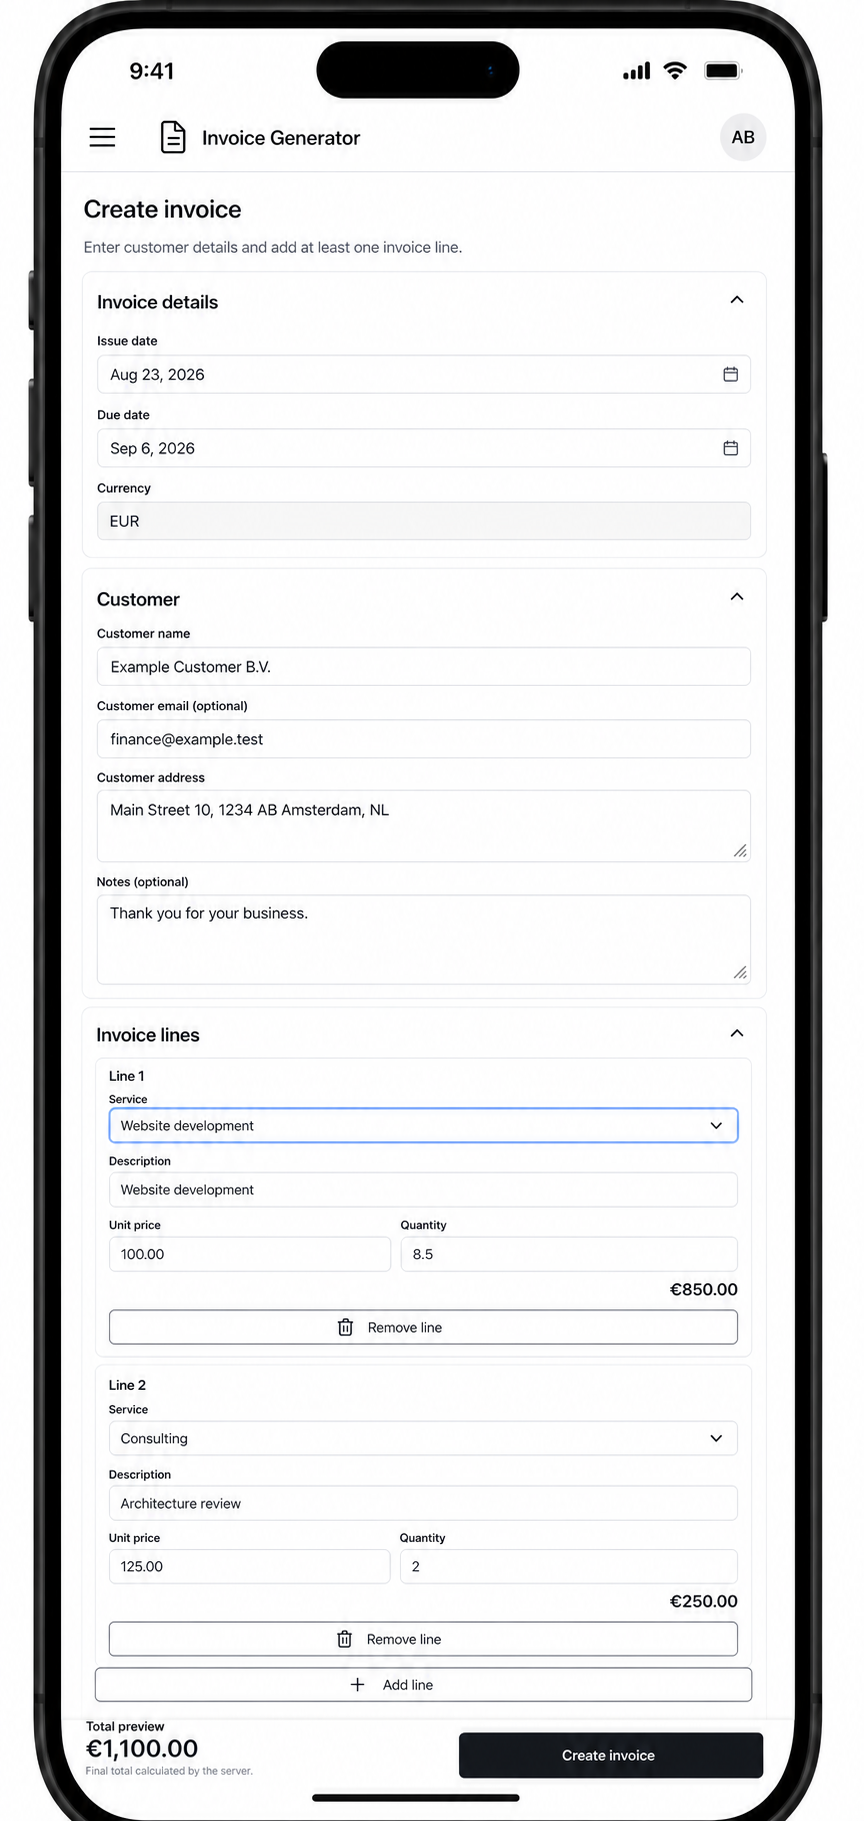
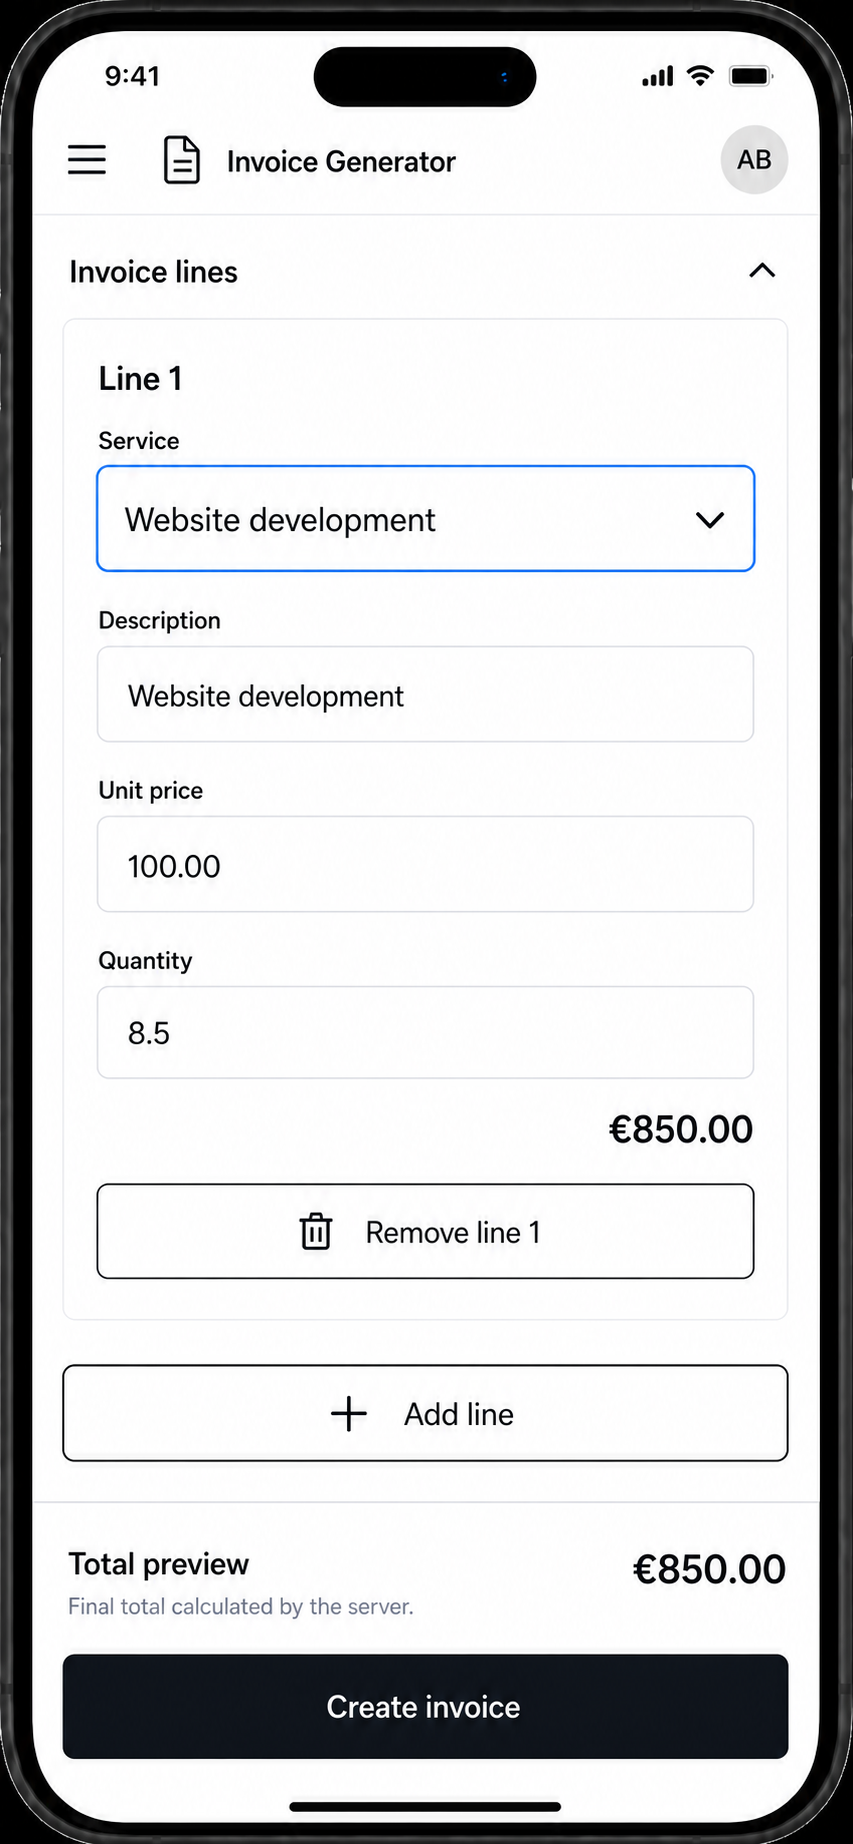
design: improve mobile invoice usability

diff --git a/docs/design/IMAGEGEN_PROMPTS.md b/docs/design/IMAGEGEN_PROMPTS.md
@@ -85,19 +85,16 @@ Avoid: invoice status, badges such as paid/draft/overdue/sent, payment actions, 
 ## Invoice creation — mobile
 
 ```text
-Use case: ui-mockup
+Use case: precise-object-edit
 Asset type: mobile web application reference mockup
-Primary request: create a high-fidelity, implementation-realistic mobile responsive "Create invoice" screen for the learning-focused Invoice Generator app, showing how the same documented multi-line invoice form adapts to a narrow phone without becoming a desktop form shrunk down.
-Scene/backdrop: one centered modern phone viewport on a plain white presentation background; inside the phone use a white application canvas.
-Subject: top app bar with hamburger menu button, generic document icon, compact product title "Invoice Generator", and a small circular account avatar. Page title "Create invoice" with supporting text "Enter customer details and add at least one invoice line." Stack collapsible-looking but open shadcn-style sections. "Invoice details" card has full-width labeled date controls "Issue date" value "Aug 23, 2026", "Due date" value "Sep 6, 2026", and read-only "Currency" value "EUR". "Customer" card shows "Customer name" value "Example Customer B.V.", "Customer email (optional)" value "finance@example.test", and a multiline "Customer address" value "Main Street 10, 1234 AB Amsterdam, NL". "Invoice lines" shows two clearly separated vertical line cards with headers "Line 1" and "Line 2". Each line has full-width "Service" select, "Description", then a two-column row "Unit price" and "Quantity", a right-aligned line preview. Line 1 values "Website development", "Website development", "100.00", "8.5", "€850.00"; Line 2 values "Consulting", "Architecture review", "125.00", "2", "€250.00". Each line has a labeled small outline action "Remove line"; below is full-width outline "Add line". Sticky bottom summary bar reads "Total preview" and "€1,100.00" with dark full-width button "Create invoice". Include short helper "Final total calculated by the server."
-Style/medium: realistic shippable responsive React web product UI matching shadcn/ui base-vega Input, Select, Card, Button and Lucide line icons; not concept art and not a native iOS design.
-Composition/framing: portrait mobile screenshot, approximate 390px-class viewport, vertically scrollable page captured as a tall full-page reference, 16px outer padding, single-column hierarchy, 12px gaps, 10px card radius, thin neutral borders, readable controls, no horizontal scrolling.
-Lighting/mood: bright, calm, focused.
-Color palette: existing neutral shadcn light theme only—white, near-black, neutral gray, muted gray, charcoal primary button.
-Text (verbatim): "Invoice Generator", "Create invoice", "Enter customer details and add at least one invoice line.", "Invoice details", "Issue date", "Aug 23, 2026", "Due date", "Sep 6, 2026", "Currency", "EUR", "Customer", "Customer name", "Example Customer B.V.", "Customer email (optional)", "finance@example.test", "Customer address", "Main Street 10, 1234 AB Amsterdam, NL", "Invoice lines", "Line 1", "Service", "Website development", "Description", "Unit price", "100.00", "Quantity", "8.5", "€850.00", "Remove line", "Line 2", "Consulting", "Architecture review", "125.00", "2", "€250.00", "Add line", "Total preview", "€1,100.00", "Final total calculated by the server."
-Typography: Inter-like sans serif throughout, minimum practical mobile readability.
-Constraints: English only; 44px minimum touch targets; labels visually associated; visible keyboard focus ring on the first service select; sticky footer does not obscure form content; preserve at least one line; practical responsive stacking; no watermark; one coherent mobile web screen.
-Avoid: VAT, tax, discounts, customer selector or customer module, invoice status, draft/sent/paid/overdue, payments, bank details, Dutch, private storage keys, public or signed URLs, bottom-tab navigation, desktop sidebar, tiny text, clipped controls, horizontal scrolling, gradients, glassmorphism, bright brand colors.
+Input images: Image 1 is the rejected first revision and visual-system reference.
+Primary request: correct the proportional accessibility sizing. The phone interior is approximately 786 source pixels wide and represents a 390px CSS viewport at roughly 2x scale. Every input, select, and button must therefore be visibly 96-104 source pixels high, representing 48-52 CSS pixels. Labels must be about 28-32 source pixels high, input values about 32 source pixels high, and icons 40-48 source pixels.
+Composition: show a standard-height mobile viewport farther down the scroll position. Keep the 56px-class app bar with a large hamburger target, generic document icon, "Invoice Generator", and avatar. Earlier page sections are above the viewport; start visible content with expanded heading "Invoice lines" and a generous "Line 1" card. Do not shrink controls to show earlier content.
+Line card: use full-width, 96-104 source-pixel-high controls for "Service" / "Website development", "Description" / "Website development", "Unit price" / "100.00", and "Quantity" / "8.5". Do not place fields side by side. Show "€850.00" and a full-width 96-104 source-pixel-high "Remove line 1" button. Below, leave at least 32 source pixels of whitespace and add a full-width 96-104 source-pixel-high "Add line" button.
+Footer: leave at least 32 source pixels between Add line and a non-overlapping sticky footer. Show "Total preview", "€850.00", helper "Final total calculated by the server.", and a full-width dark 104 source-pixel-high "Create invoice" button with device safe-area clearance.
+Spacing and style: use 32 source-pixel horizontal page padding, 32-40 source-pixel card padding, 24-32 source-pixel gaps, Inter-like typography, neutral shadcn colors, thin borders, and 10-12px radii. Keep a visible blue focus ring on Service.
+Constraints: all interactive targets, including hamburger, fields, Remove line 1, Add line, and Create invoice, meet the explicit source-pixel height; English only; no clipping, overlap, horizontal overflow, tiny helper copy, or edge-cramped action. This is visual direction, not a contract.
+Avoid: miniature controls, compressed full-page capture, collapsed rows in this viewport, two-column mobile inputs, VAT, tax, discounts, customer module or selector, invoice status, payment workflow, Dutch, public storage URLs, private keys, bottom tabs, gradients, bright branding, watermark.
 ```
 
 ## Invoice detail — final icon edit
@@ -124,30 +121,4 @@ Input images: Image 1: edit target, the existing Invoice Generator business-prof
 Primary request: make exactly two scoped corrections. First, populate every required seller field so the green "Business profile complete" prerequisite is truthful: "Business name" = "Pixel & Paper Studio", "Email" = "alex@example.test", "Address line 1" = "Canal Street 12", leave only "Address line 2 (optional)" empty, "Postal code" = "1012 AB", "City" = "Amsterdam", and "Country" = "Netherlands". Second, remove the three-dot overflow/ellipsis action at the far right of each existing service row and use the freed space as clean table whitespace; services are list-only in this MVP.
 Constraints: change only the field values and removal of the two service-row ellipsis actions. Preserve the full browser crop, URL bar, sidebar, active navigation, avatar, all headings and English labels, green prerequisite checkmarks, form structure, service creation controls, two existing service rows and values, colors, Inter-like typography, focus ring, spacing, borders, and shadows. Keep "Save profile" and "Add service" unchanged. No other new action or field. No watermark.
 Avoid: edit or delete service actions, kebab menus, overflow icons, VAT, tax, discounts, customer module, status/payment UI, Dutch text, storage URLs, private keys, new branding or logos.
-```
-
-## Invoice creation mobile — notes edit
-
-This targeted edit produced the committed mobile PNG from its initial generation.
-
-```text
-Use case: precise-object-edit
-Asset type: mobile web application reference mockup
-Input images: Image 1: edit target, the existing Invoice Generator mobile create-invoice UI mockup
-Primary request: add one visible, full-width multiline control labeled "Notes (optional)" with the value "Thank you for your business." inside the "Customer" card, directly below the existing "Customer address" control and before the "Invoice lines" card.
-Constraints: preserve the complete phone frame, responsive single-column layout, all existing English copy and values, invoice detail fields, customer fields, both line-item cards and their controls/values, focus ring, add/remove actions, sticky total preview, server-authority helper, and "Create invoice" action. Reflow vertically as needed so the new notes textarea is fully visible, nothing overlaps the sticky total, no content is clipped, and there is no horizontal scrolling. Maintain 16px-class page padding, readable Inter-like typography, 44px touch targets, neutral shadcn base-vega styling, thin borders, spacing rhythm, and white background. Change nothing else. No watermark.
-Avoid: horizontal overflow, clipped form controls, tiny text, VAT, tax, discounts, customer selector/module, invoice status, payment workflow, Dutch, storage URLs, private keys, desktop sidebar, bottom-tab navigation, gradients or bright colors.
-```
-
-## Invoice creation mobile — footer-clearance edit
-
-This final vertical outpaint produced the committed mobile PNG from the content-correct notes asset.
-
-```text
-Use case: precise-object-edit
-Asset type: mobile web application reference mockup
-Input images: Image 1: edit target, the original content-correct Invoice Generator mobile create-invoice UI mockup
-Primary request: perform a vertical canvas/phone-viewport extension only. Preserve the entire existing form and every pixel of its UI content through the complete "Add line" button. Extend the phone viewport and surrounding canvas downward by enough neutral space, approximately 72–96px, then move only the sticky "Total preview" / "Create invoice" footer and phone home indicator into that newly extended bottom area. The complete 44px Add line button, including its exact plus icon, exact "Add line" label, full bottom border, and 12–16px of whitespace below it, must be fully visible above the sticky footer.
-Constraints: do not re-render, retype, compress, remove, replace, or reflow any form field or action above the footer. Preserve exact original English text and values, Notes (optional), both invoice lines, both exact "Remove line" buttons, exact "Add line" button, focus ring, colors, widths, spacing, and typography. Preserve phone width and no horizontal scrolling. Only add vertical bottom canvas/phone space and reposition the sticky footer/home indicator downward. No clipping, overlap, malformed text, missing controls, or watermark.
-Avoid: modifying any label or value, deleting actions, shrinking controls, footer overlap, horizontal overflow, VAT, discounts, status/payment UI, Dutch, storage URLs, new colors or branding.
 ```

diff --git a/docs/design/README.md b/docs/design/README.md
@@ -52,8 +52,10 @@ The implementation may keep them as separate routes while reusing the same compl
   sticky summary and a two-column invoice-detail layout with a narrow PDF card.
 - **Tablet (768-1023 px):** collapse the sidebar to the sheet, keep form sections full width, and
   move summary/PDF cards below the primary content when space is tight.
-- **Mobile (below 768 px):** use 16 px page padding, a single column, at least 44 px touch targets,
-  vertical line-item cards, and a bottom summary action that never obscures form content.
+- **Mobile (below 768 px):** use 16 px page padding, 16 px input text, 48-52 px controls,
+  full-width fields and actions, and a bottom summary that respects the device safe area. Do not
+  shrink a full desktop-length form into one screen: earlier sections scroll out of view while the
+  active section receives normal viewport space.
 - Tables may become stacked summary rows on small screens. Preserve invoice number, customer,
   dates, total, detail navigation, and an explicitly named PDF action.
 - Never shrink desktop controls until labels or values become unreadable; reflow before reducing
@@ -80,7 +82,7 @@ The implementation may keep them as separate routes while reusing the same compl
 | `invoice-create-desktop.png` | Complete desktop create form with two editable lines | Two-line layout, dates, EUR preview, server-authority helper, and actions are clear. |
 | `invoice-list-states-desktop.png` | Populated and empty list states | Both states share one navigation hierarchy; row focus and named download actions are visible; no status column exists. |
 | `invoice-detail-desktop.png` | Read-only snapshots and PDF download | Seller/customer snapshots, line totals, PDF metadata, and focus-visible download action are legible; no storage URL/key is shown. |
-| `invoice-create-mobile.png` | Narrow-screen create-form reflow | Customer notes, both line cards, and actions remain visible without horizontal scrolling; the complete 44px `Add line` button, bottom border, and clear gap sit above the sticky total/action footer. |
+| `invoice-create-mobile.png` | Usable narrow-screen create-form viewport | The mid-scroll reference gives active fields 16px text and 48-52px targets; `Add line` is full width with clear spacing above a non-overlapping safe-area footer. |
 
 Visual QA was performed at original generated resolution. These bitmap references are not pixel
 specifications, and generated copy should be checked against locale resources during implementation.
@@ -88,8 +90,8 @@ The invoice-list asset intentionally presents two design states on one reference
 
 ## Generation record
 
-All five PNGs were generated with the built-in ImageGen tool in `ui-mockup` mode, one initial call
-per distinct asset. Built-in targeted edits replaced a brand-like PDF symbol, corrected completed
-profile/service state, and added mobile notes without changing the overall visual system. No CLI/API
-fallback or production UI code was used. A final vertical outpaint removed the mobile footer overlap
-without changing form content. The exact committed-asset prompt set is in `IMAGEGEN_PROMPTS.md`.
+All five PNGs were generated with the built-in ImageGen tool. Built-in targeted edits replaced a
+brand-like PDF symbol, corrected completed profile/service state, and replaced the rejected
+full-page mobile capture with a standard-height, task-focused viewport using accessible sizing.
+No CLI/API fallback or production UI code was used. The exact committed-asset prompt set is in
+`IMAGEGEN_PROMPTS.md`.
